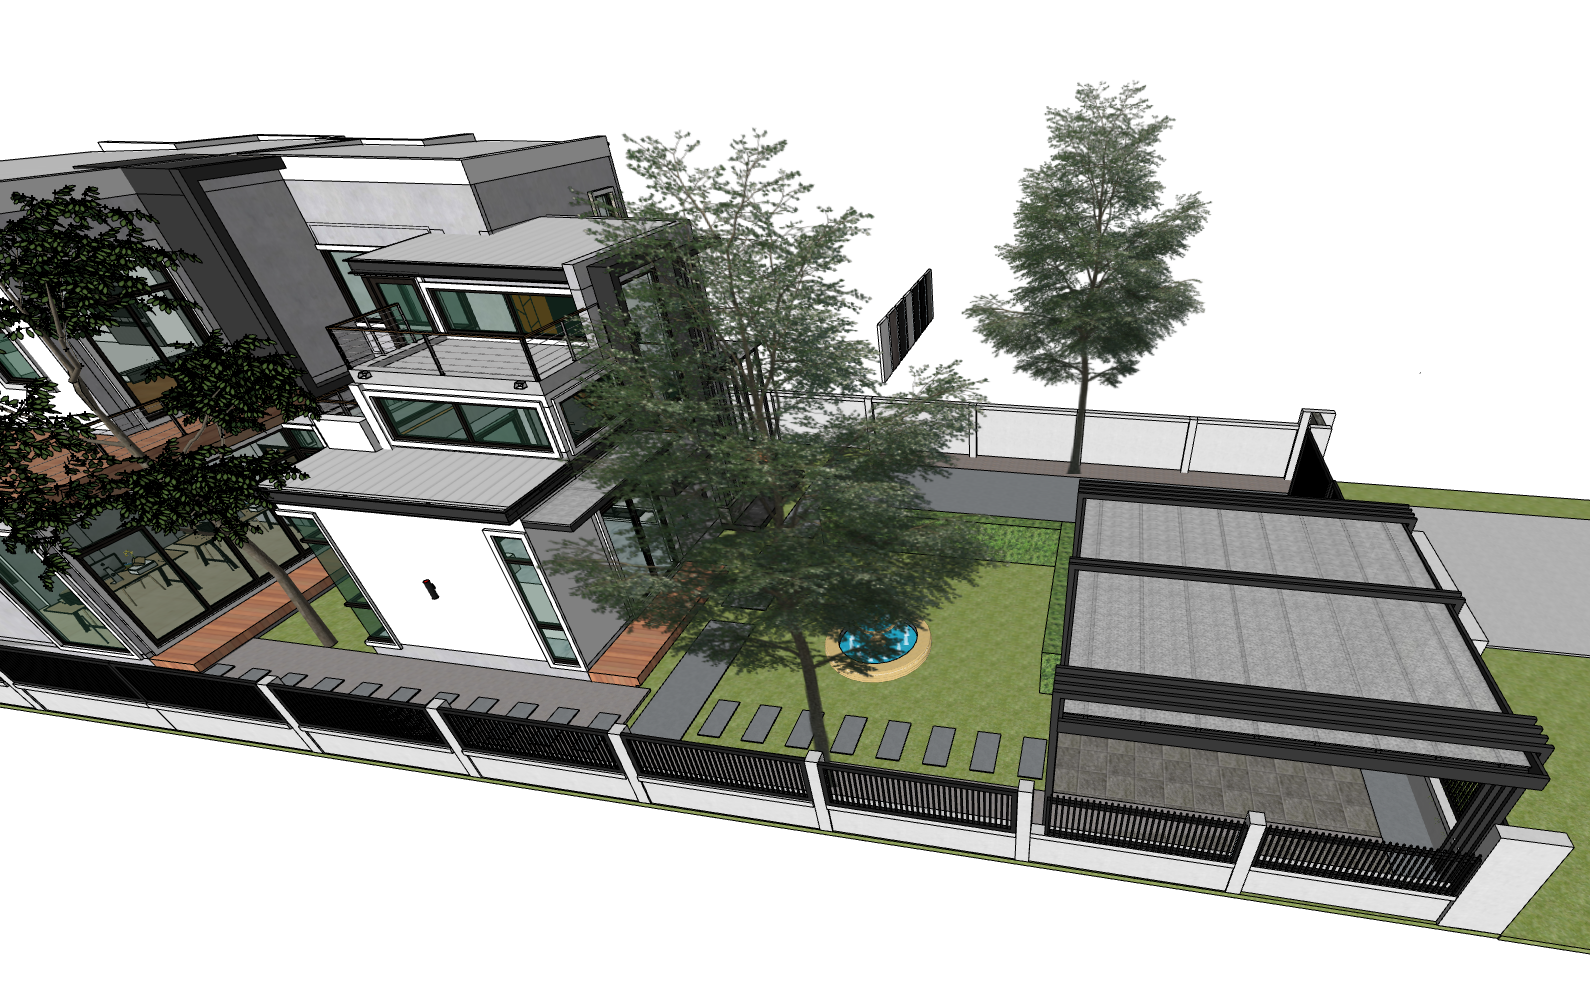
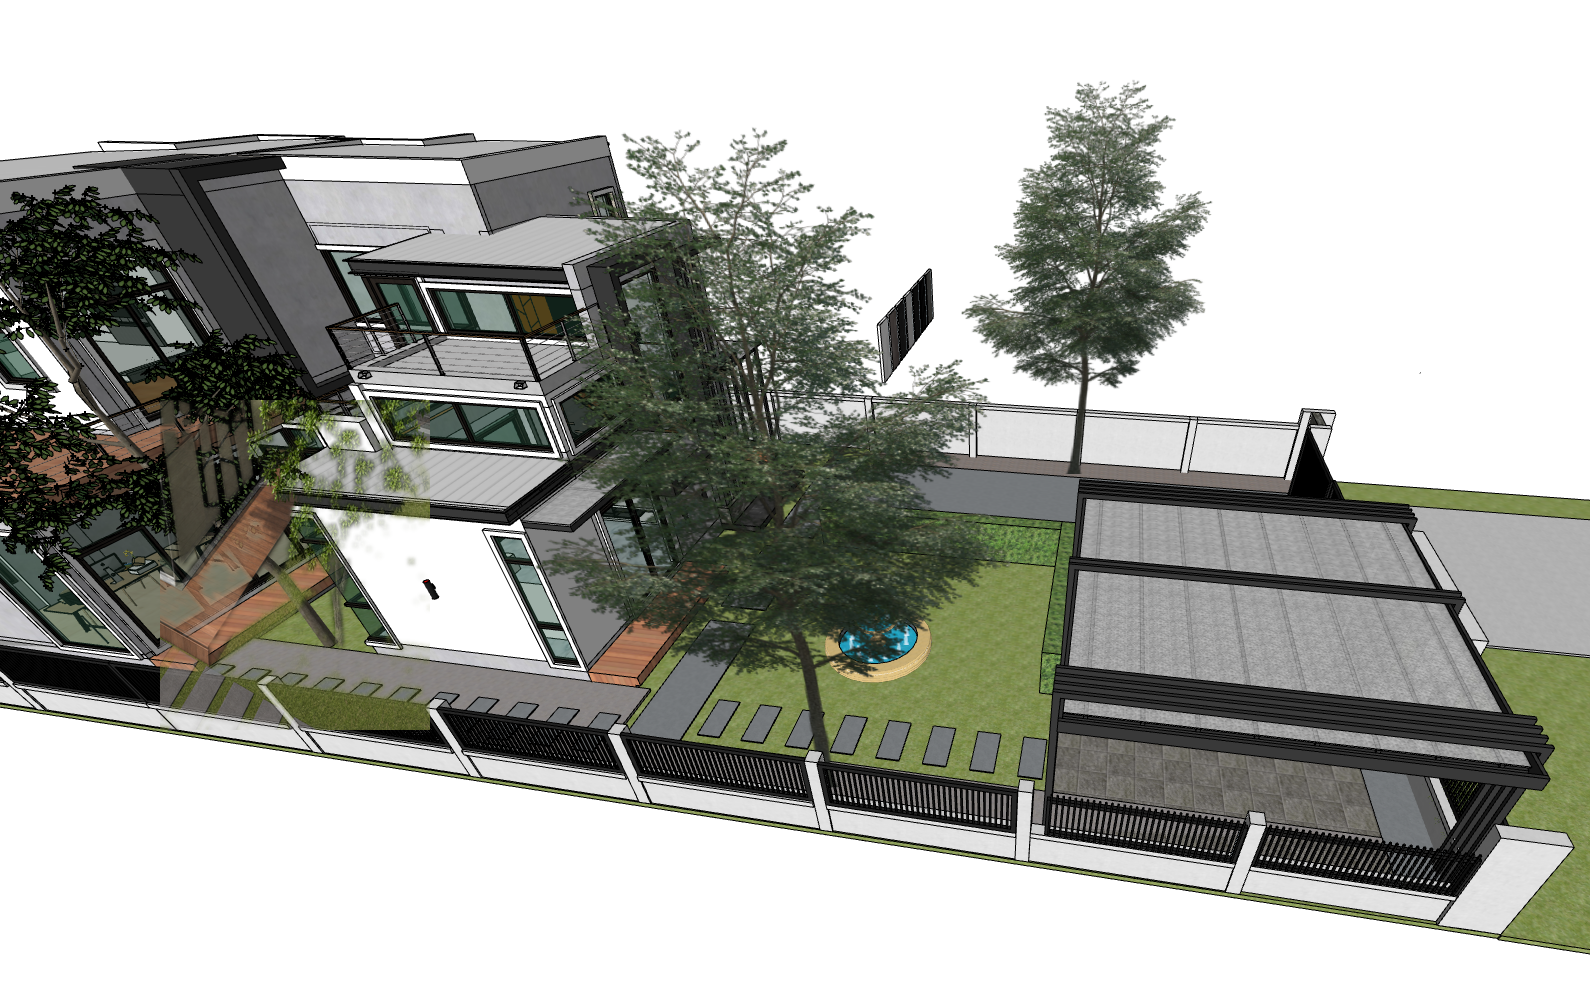
update

Changed region(s): [[0.0925, 0.3935, 0.2774, 0.7568]]

diff --git a/outline/home.html b/outline/home.html
@@ -1043,17 +1043,18 @@
 
                 <!-- 9. ข้างบ้าน ทั่วไป -->
                 <div class="image-card" data-zone="right" data-name="ข้างบ้าน side view side layout general">
-                    <div class="image-wrapper" onclick="openModal('../resources/ข้างบ้าน.png', 'ข้างบ้าน - มุมมองทั่วไป (General Side View)')">
+                    <div class="image-wrapper" id="wrapper-right-general" onclick="openModal('../resources/ข้างบ้าน_designed.png', 'ข้างบ้าน (หลังจัดสวน)')">
                         <span class="zone-badge">ข้างบ้านฝั่งขวา</span>
-                        <img src="../resources/ข้างบ้าน.png" alt="ข้างบ้าน">
+                        <img id="img-right-general" src="../resources/ข้างบ้าน_designed.png" alt="ข้างบ้าน">
+                        <span id="badge-right-general" class="zone-badge" style="left: auto; right: 0.75rem; background-color: var(--primary-color); color: #fff;">🌳 จัดสวนแล้ว</span>
                     </div>
                     <div class="card-details">
                         <div>
                             <h3>ข้างบ้าน (ทั่วไป)</h3>
-                            <p class="filename">ข้างบ้าน.png</p>
+                            <p class="filename" id="filename-right-general">ข้างบ้าน_designed.png</p>
                         </div>
                         <div class="card-actions">
-                            <button class="view-btn" onclick="openModal('../resources/ข้างบ้าน.png', 'ข้างบ้าน - มุมมองทั่วไป (General Side View)')">
+                            <button id="btn-right-general" class="view-btn" onclick="openModal('../resources/ข้างบ้าน_designed.png', 'ข้างบ้าน (หลังจัดสวน)')">
                                 ขยายภาพ
                                 <svg width="12" height="12" viewBox="0 0 24 24" fill="none" stroke="currentColor" stroke-width="2.5"><path d="M15 3h6v6M9 21H3v-6M21 3l-7 7M3 21l7-7"/></svg>
                             </button>
@@ -1358,7 +1359,7 @@
             
             { id: 'right-back', angle: 45, level: 'normal', name: 'ข้างบ้านฝั่งขวา ด้านหลัง', zone: 'ข้างบ้านฝั่งขวา', src: '../resources/ข้างบ้านฝั่งขวาด้านหลัง.png' },
             { id: 'right-middle', angle: 90, level: 'normal', name: 'ข้างบ้านฝั่งขวา', zone: 'ข้างบ้านฝั่งขวา', src: '../resources/ข้างบ้านฝั่งขวา.png' },
-            { id: 'right-general', angle: 135, level: 'normal', name: 'ข้างบ้าน (ทั่วไป)', zone: 'ข้างบ้านฝั่งขวา', src: '../resources/ข้างบ้าน.png' }
+            { id: 'right-general', angle: 135, level: 'normal', name: 'ข้างบ้าน (ทั่วไป)', zone: 'ข้างบ้านฝั่งขวา', src: '../resources/ข้างบ้าน.png', designedSrc: '../resources/ข้างบ้าน_designed.png' }
         ];
 
         // Unique angle list (sorted counter clockwise/clockwise)
@@ -1633,6 +1634,7 @@
             { prefix: 'garage-front', raw: '../resources/โรงจอดรถด้านหน้า.png', designed: '../resources/โรงจอดรถด้านหน้า_designed.png', designedTitle: 'โรงจอดรถ ด้านหน้า (หลังจัดสวน)', rawTitle: 'โรงจอดรถ ด้านหน้า (โครงสร้างเดิม)', designedFile: 'โรงจอดรถด้านหน้า_designed.png', rawFile: 'โรงจอดรถด้านหน้า.png' },
             { prefix: 'garage-right', raw: '../resources/โรงจอดรถด้านขวา.png', designed: '../resources/โรงจอดรถด้านขวา_designed.png', designedTitle: 'โรงจอดรถ ด้านขวา (หลังจัดสวน)', rawTitle: 'โรงจอดรถ ด้านขวา (โครงสร้างเดิม)', designedFile: 'โรงจอดรถด้านขวา_designed.png', rawFile: 'โรงจอดรถด้านขวา.png' },
             { prefix: 'left-middle', raw: '../resources/ข้างบ้านฝั่งซ้ายตรงกลาง.png', designed: '../resources/ข้างบ้านฝั่งซ้ายตรงกลาง_designed.png', designedTitle: 'ข้างบ้านฝั่งซ้าย ตรงกลาง (หลังจัดสวน)', rawTitle: 'ข้างบ้านฝั่งซ้าย ตรงกลาง (โครงสร้างเดิม)', designedFile: 'ข้างบ้านฝั่งซ้ายตรงกลาง_designed.png', rawFile: 'ข้างบ้านฝั่งซ้ายตรงกลาง.png' },
+            { prefix: 'right-general', raw: '../resources/ข้างบ้าน.png', designed: '../resources/ข้างบ้าน_designed.png', designedTitle: 'ข้างบ้าน (หลังจัดสวน)', rawTitle: 'ข้างบ้าน (โครงสร้างเดิม)', designedFile: 'ข้างบ้าน_designed.png', rawFile: 'ข้างบ้าน.png' },
         ];
 
         function setGlobalMode(mode) {